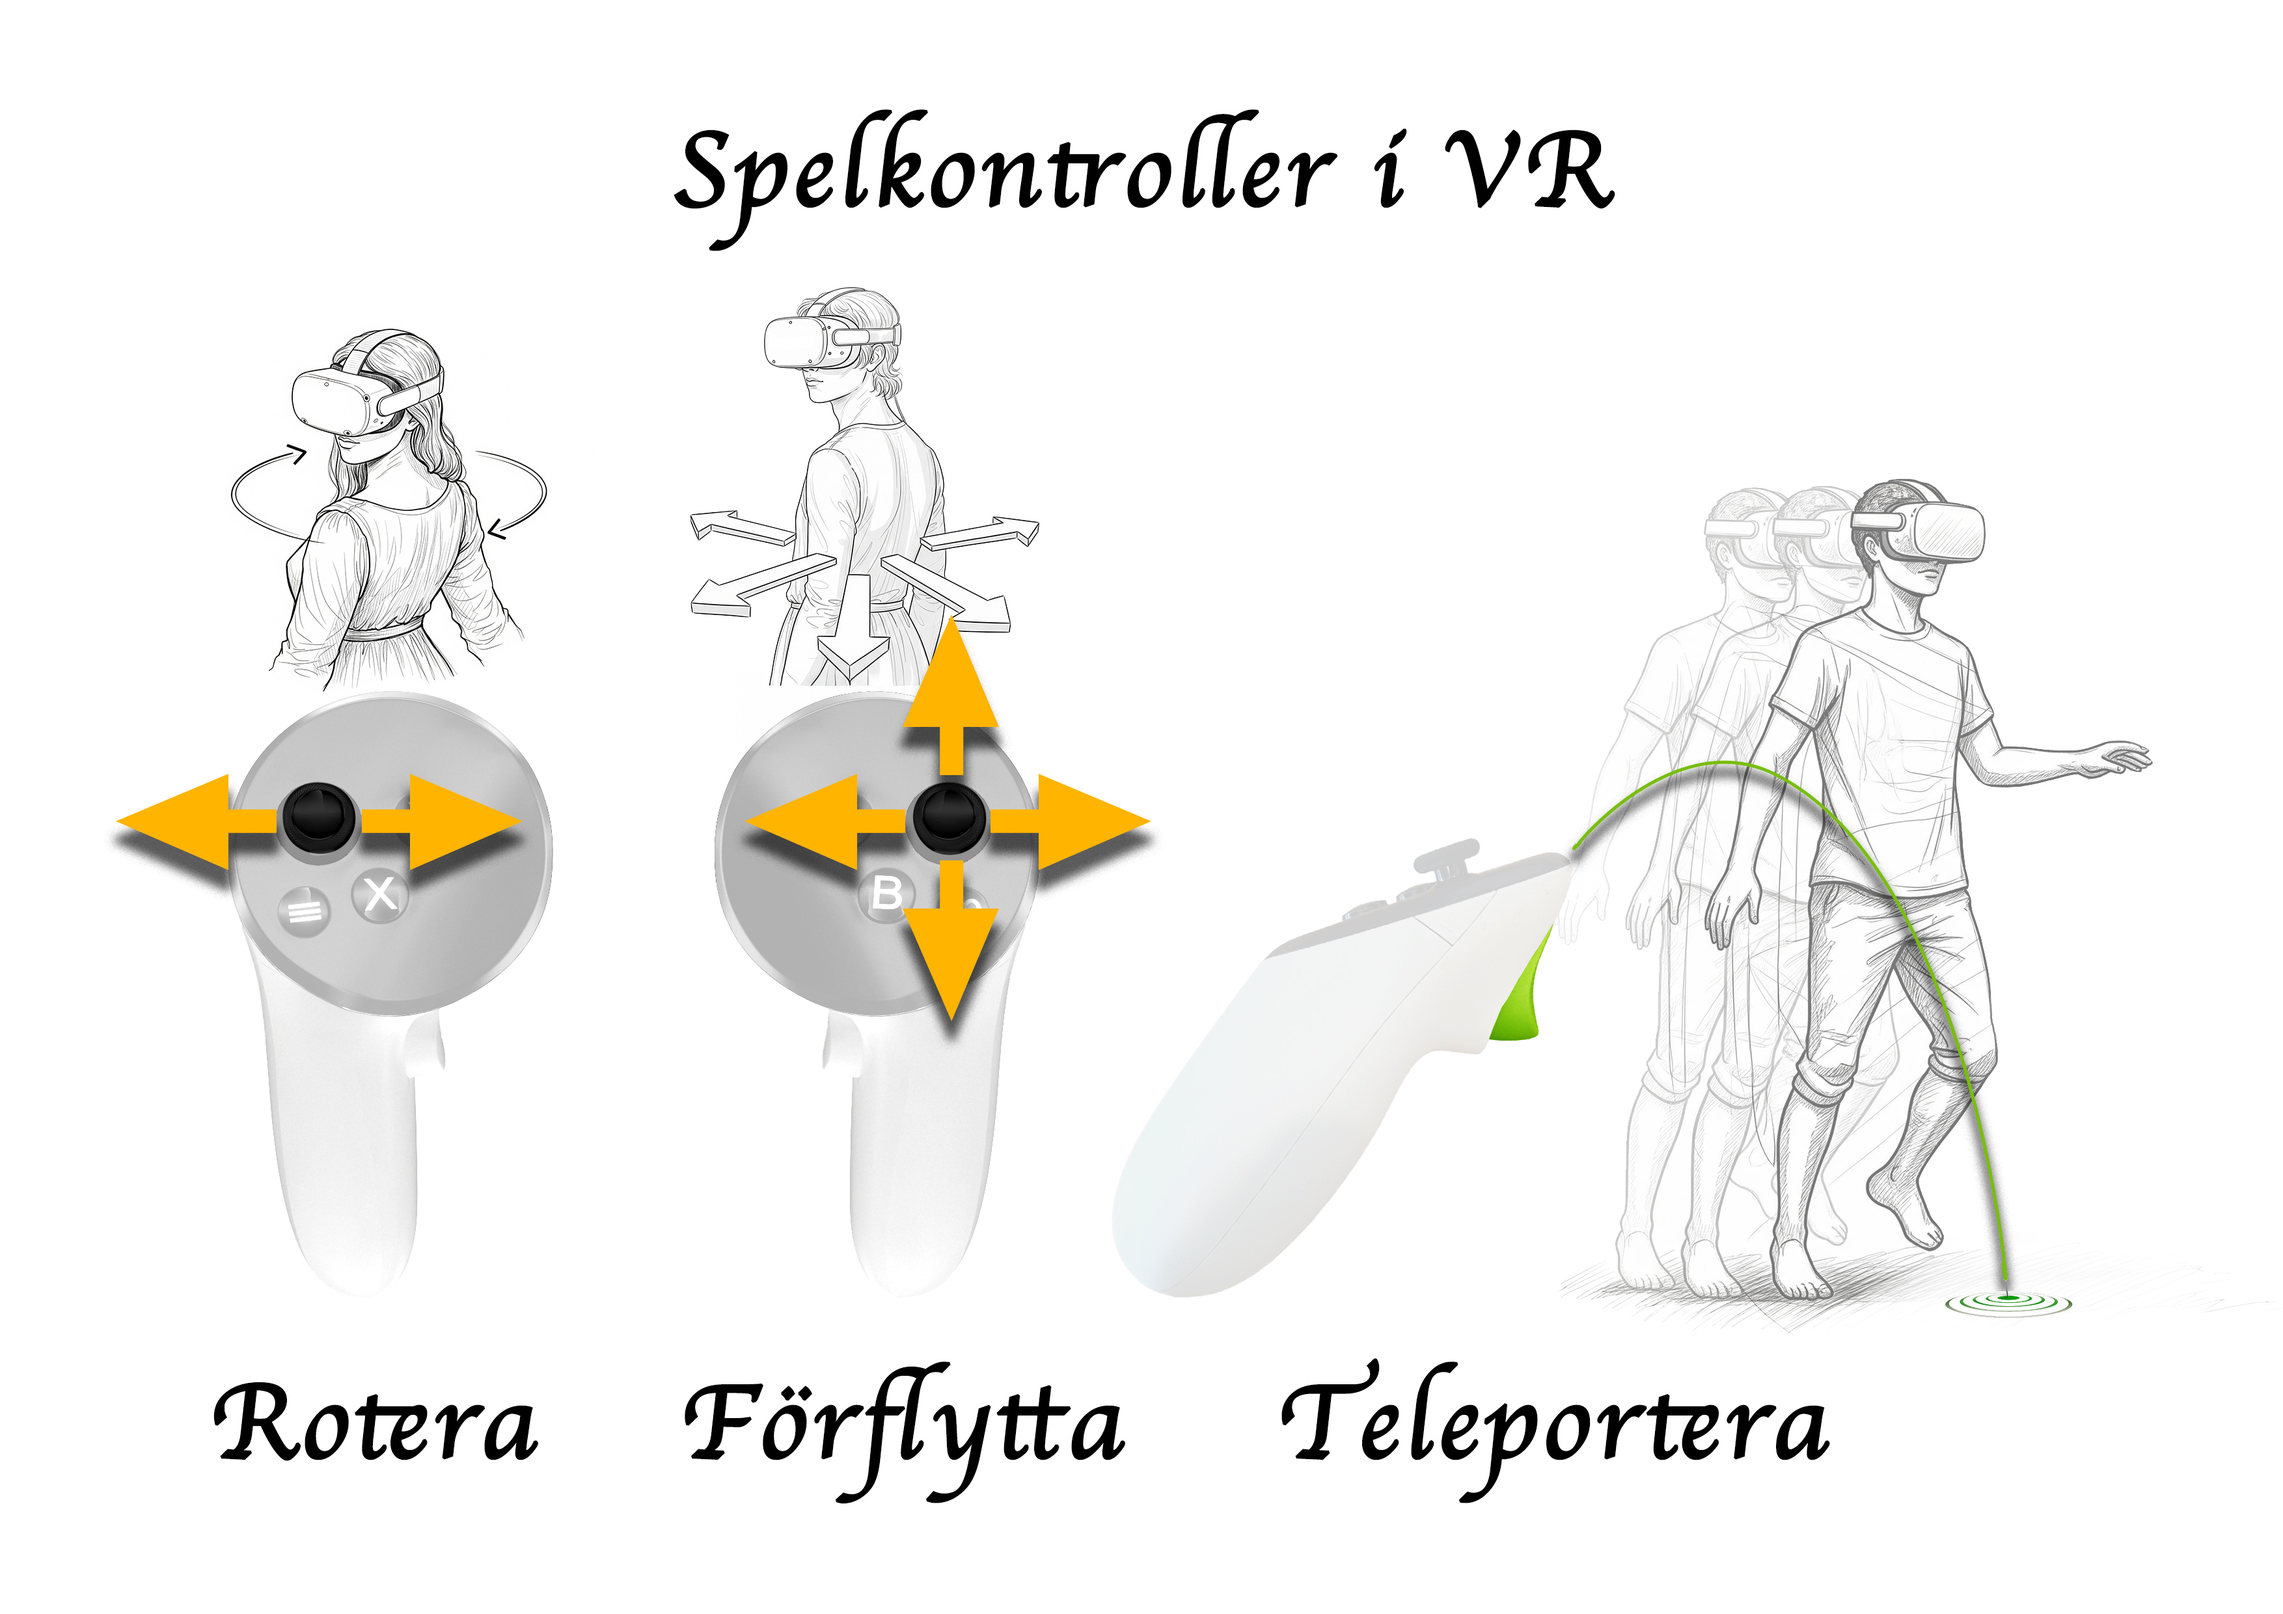
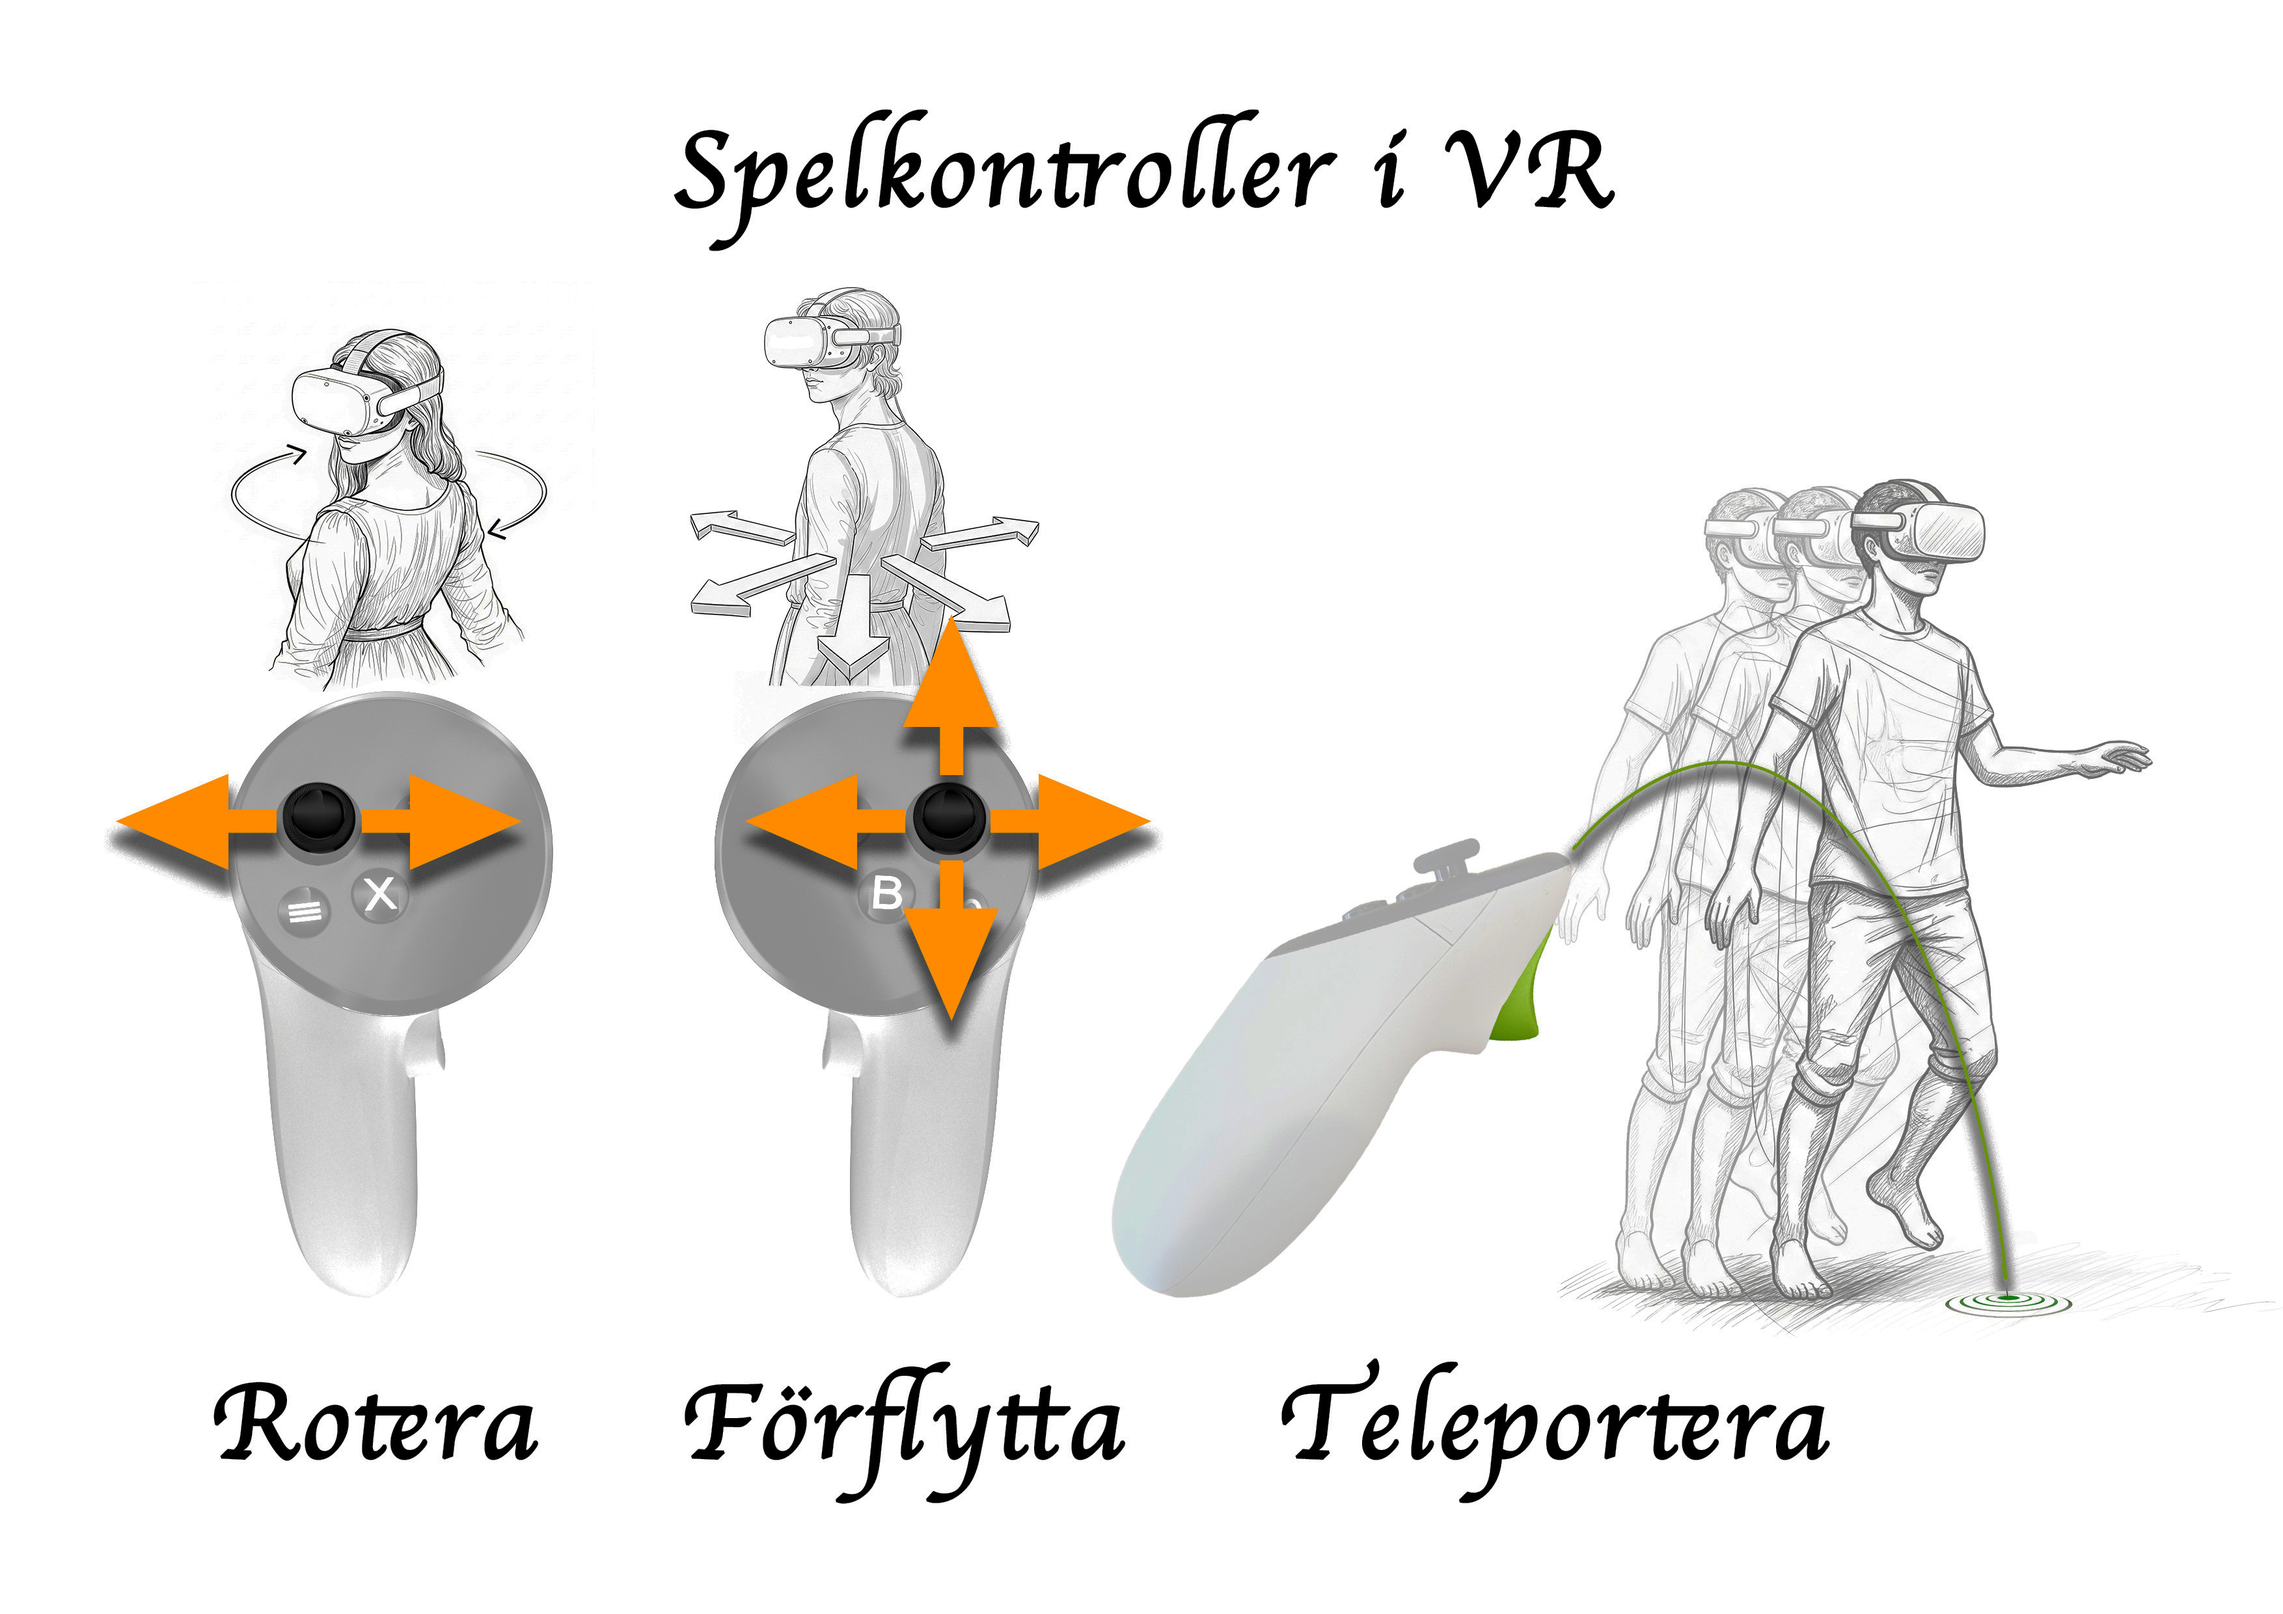
1

Changed region(s): [[0.4661, 0.2794, 0.9322, 0.8383], [0.3107, 0.1863, 0.5282, 0.7762], [0.0311, 0.1863, 0.2486, 0.7762]]

diff --git a/scripts/paintings.js b/scripts/paintings.js
@@ -13,7 +13,7 @@ let worldTimerObject = null;
 // Objekt för att hålla reda på original-, ledtråds- och specialtexturer
 let originalTextures = {};
 let hintTextures = {};
-let swapTextures = {}; // NY: För bilder som ska bytas ut
+let swapTextures = {}; // För bilder som ska bytas ut
 
 // Funktion för att skapa timern i 3D-världen
 function createWorldTimer(scene, paintingMesh, paintingData) {
@@ -42,7 +42,7 @@ function createWorldTimer(scene, paintingMesh, paintingData) {
     timerMesh.position.set(
         paintingPos.x,
         paintingPos.y + (paintingSize.height / 2) + 0.15, // Höjden är 15cm ovanför tavlans kant
-        paintingPos.z + 0.03 // JUSTERAD: Flyttad 3cm framför tavlan
+        paintingPos.z + 0.03 // Flyttad 3cm framför tavlan
     );
     timerMesh.rotation.y = paintingMesh.rotation.y;
     
@@ -120,7 +120,6 @@ function createPaintings(scene, roomInstance) {
             position: new THREE.Vector3(-W_half + wallOffsetToCenter, paintingCenterY, D_half * 0.4),
             rotationY: Math.PI / 2, size: { width: paintingWidth, height: paintingHeight }
         },
-        // --- START: ÄNDRING FÖR HILMA 4 ---
         {
             id: "controls_display", // Nytt, unikt ID
             imagePath: "images/spelkontroller.jpg", // Bild på spelkontroller
@@ -130,7 +129,6 @@ function createPaintings(scene, roomInstance) {
             size: { width: paintingWidth * 1.6, height: paintingWidth * 0.9 }, // 16:9 aspect ratio
             isFlat: true // Renderas som en platt yta
         },
-        // --- SLUT: ÄNDRING FÖR HILMA 4 ---
         {
             id: "painting_right_1", imagePath: "images/tavla4.jpg",
             hintImagePath: "images/tavla4_hint.jpg",
@@ -156,7 +154,6 @@ function createPaintings(scene, roomInstance) {
             hintTextures[data.id] = textureLoaderInstanceP.load(data.hintImagePath, (texture) => {texture.anisotropy = anisoVal;});
         }
         
-        // NY: Ladda in texturer som ska bytas ut
         if (data.swapImagePath) {
             swapTextures[data.id] = textureLoaderInstanceP.load(data.swapImagePath, (texture) => {texture.anisotropy = anisoVal;});
         }
@@ -236,6 +233,6 @@ function getPaintingTextures() {
     return {
         originals: originalTextures,
         hints: hintTextures,
-        swaps: swapTextures // NY: Gör swap-texturerna tillgängliga
+        swaps: swapTextures
     };
 }

diff --git a/scripts/main.js b/scripts/main.js
@@ -728,4 +728,3 @@ function animate() {
 
 init();
 checkXR();
-}
